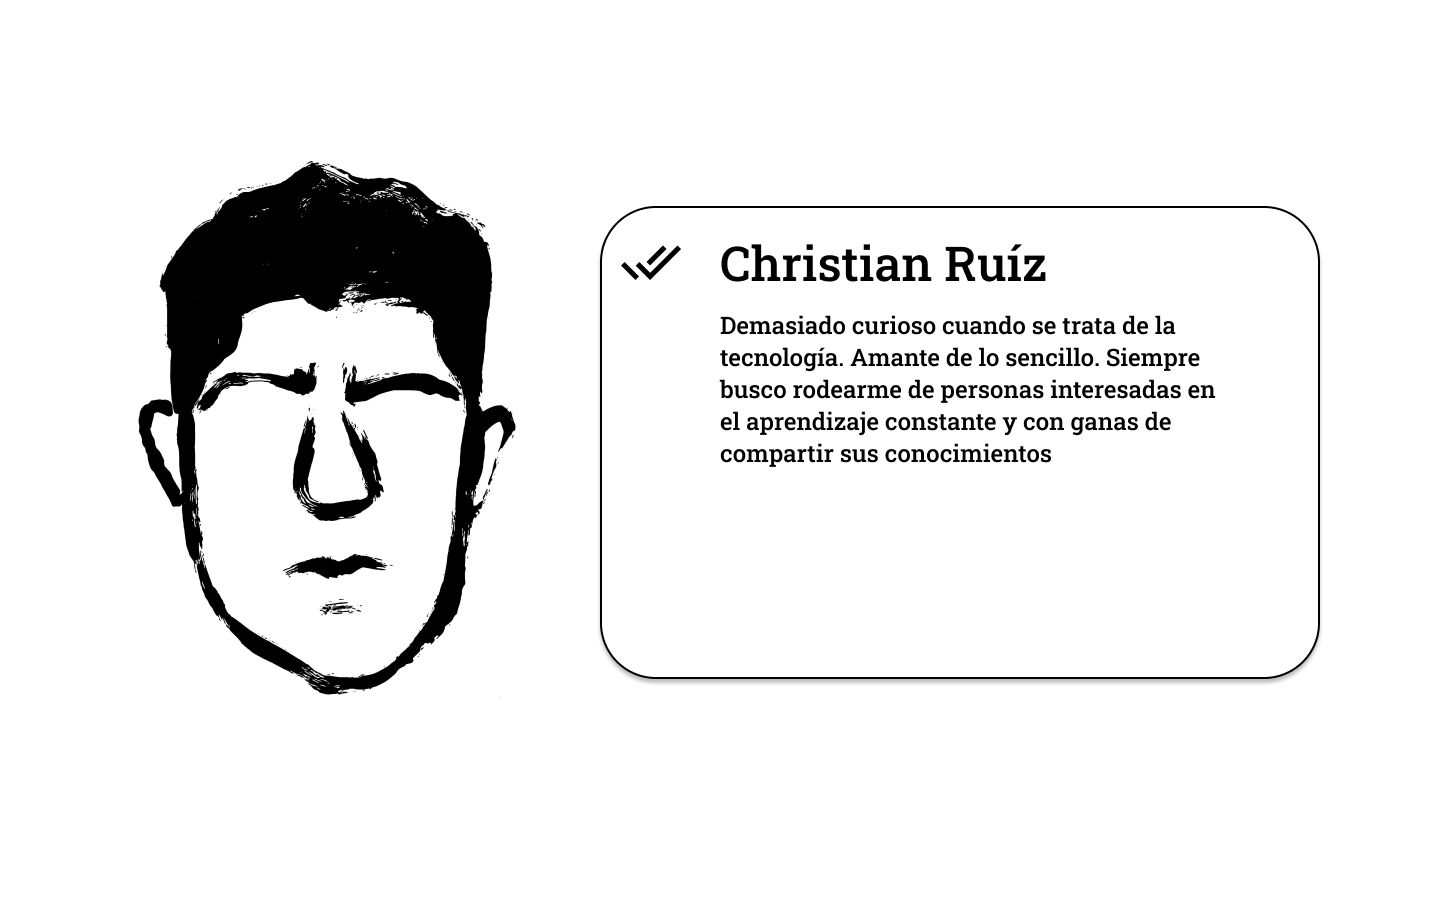
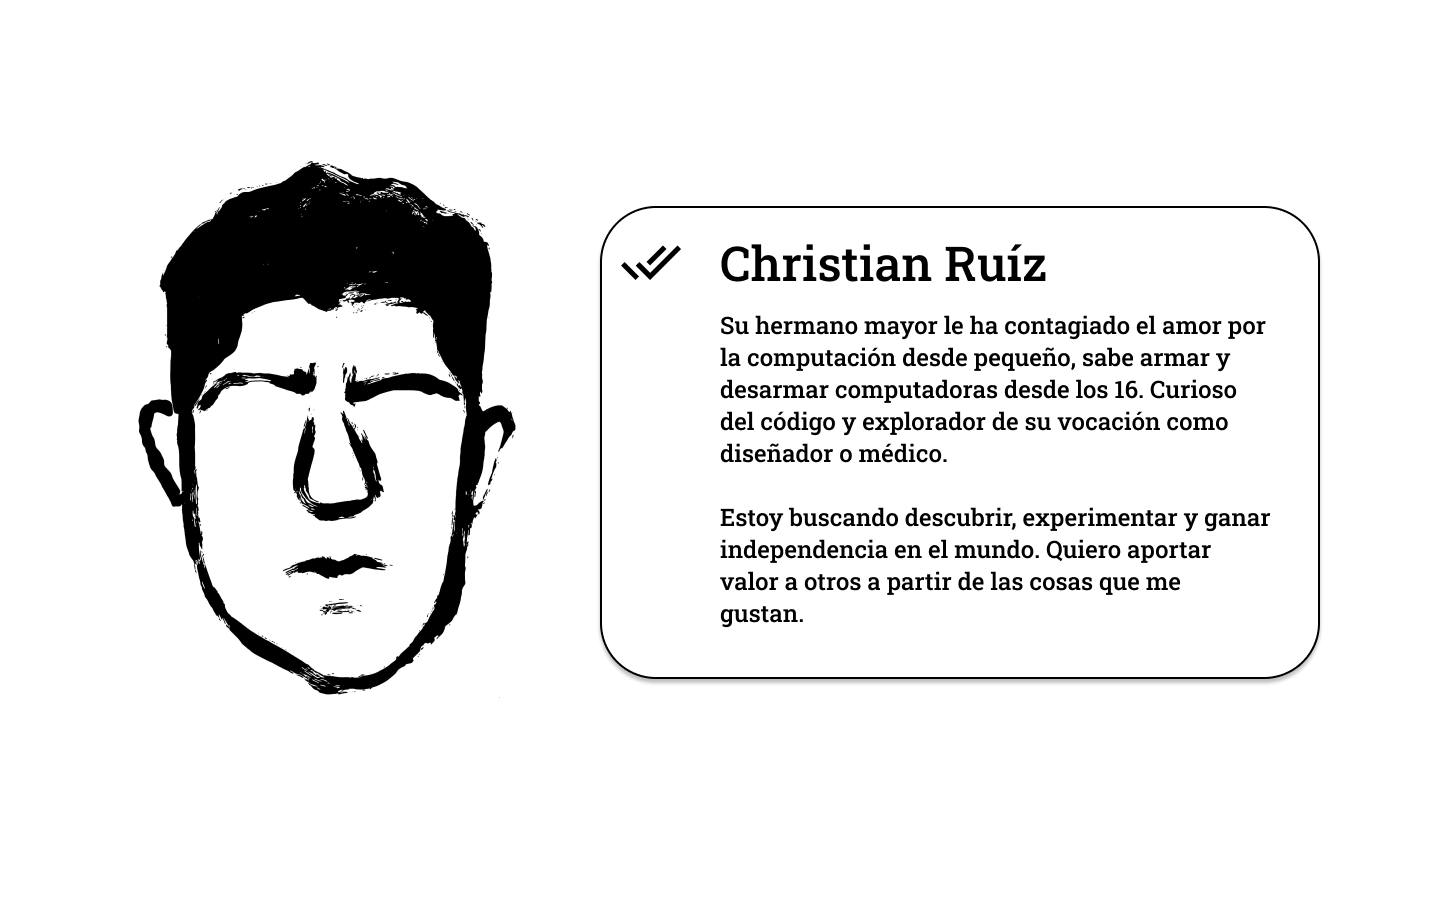
se agregaron imágenes de presentación

Changed region(s): [[0.5, 0.3422, 0.875, 0.5289], [0.5, 0.56, 0.875, 0.7156]]

diff --git a/src/html/kiss-team.html b/src/html/kiss-team.html
@@ -78,6 +78,18 @@
               <div class="carousel-item">
                 <img src="../svg/presentacion/fernanda.png" class="d-block w-100" alt="...">
               </div>
+              <div class="carousel-item">
+                <img src="../svg/presentacion/carlos.png" class="d-block w-100" alt="...">
+              </div>
+              <div class="carousel-item">
+                <img src="../svg/presentacion/rodrigo.png" class="d-block w-100" alt="...">
+              </div>
+              <div class="carousel-item">
+                <img src="../svg/presentacion/laura.png" class="d-block w-100" alt="...">
+              </div>
+              <div class="carousel-item">
+                <img src="../svg/presentacion/magali.png" class="d-block w-100" alt="...">
+              </div>
 
             </div>
             <a class="carousel-control-prev" href="#carouselExampleIndicators" role="button" data-slide="prev">
